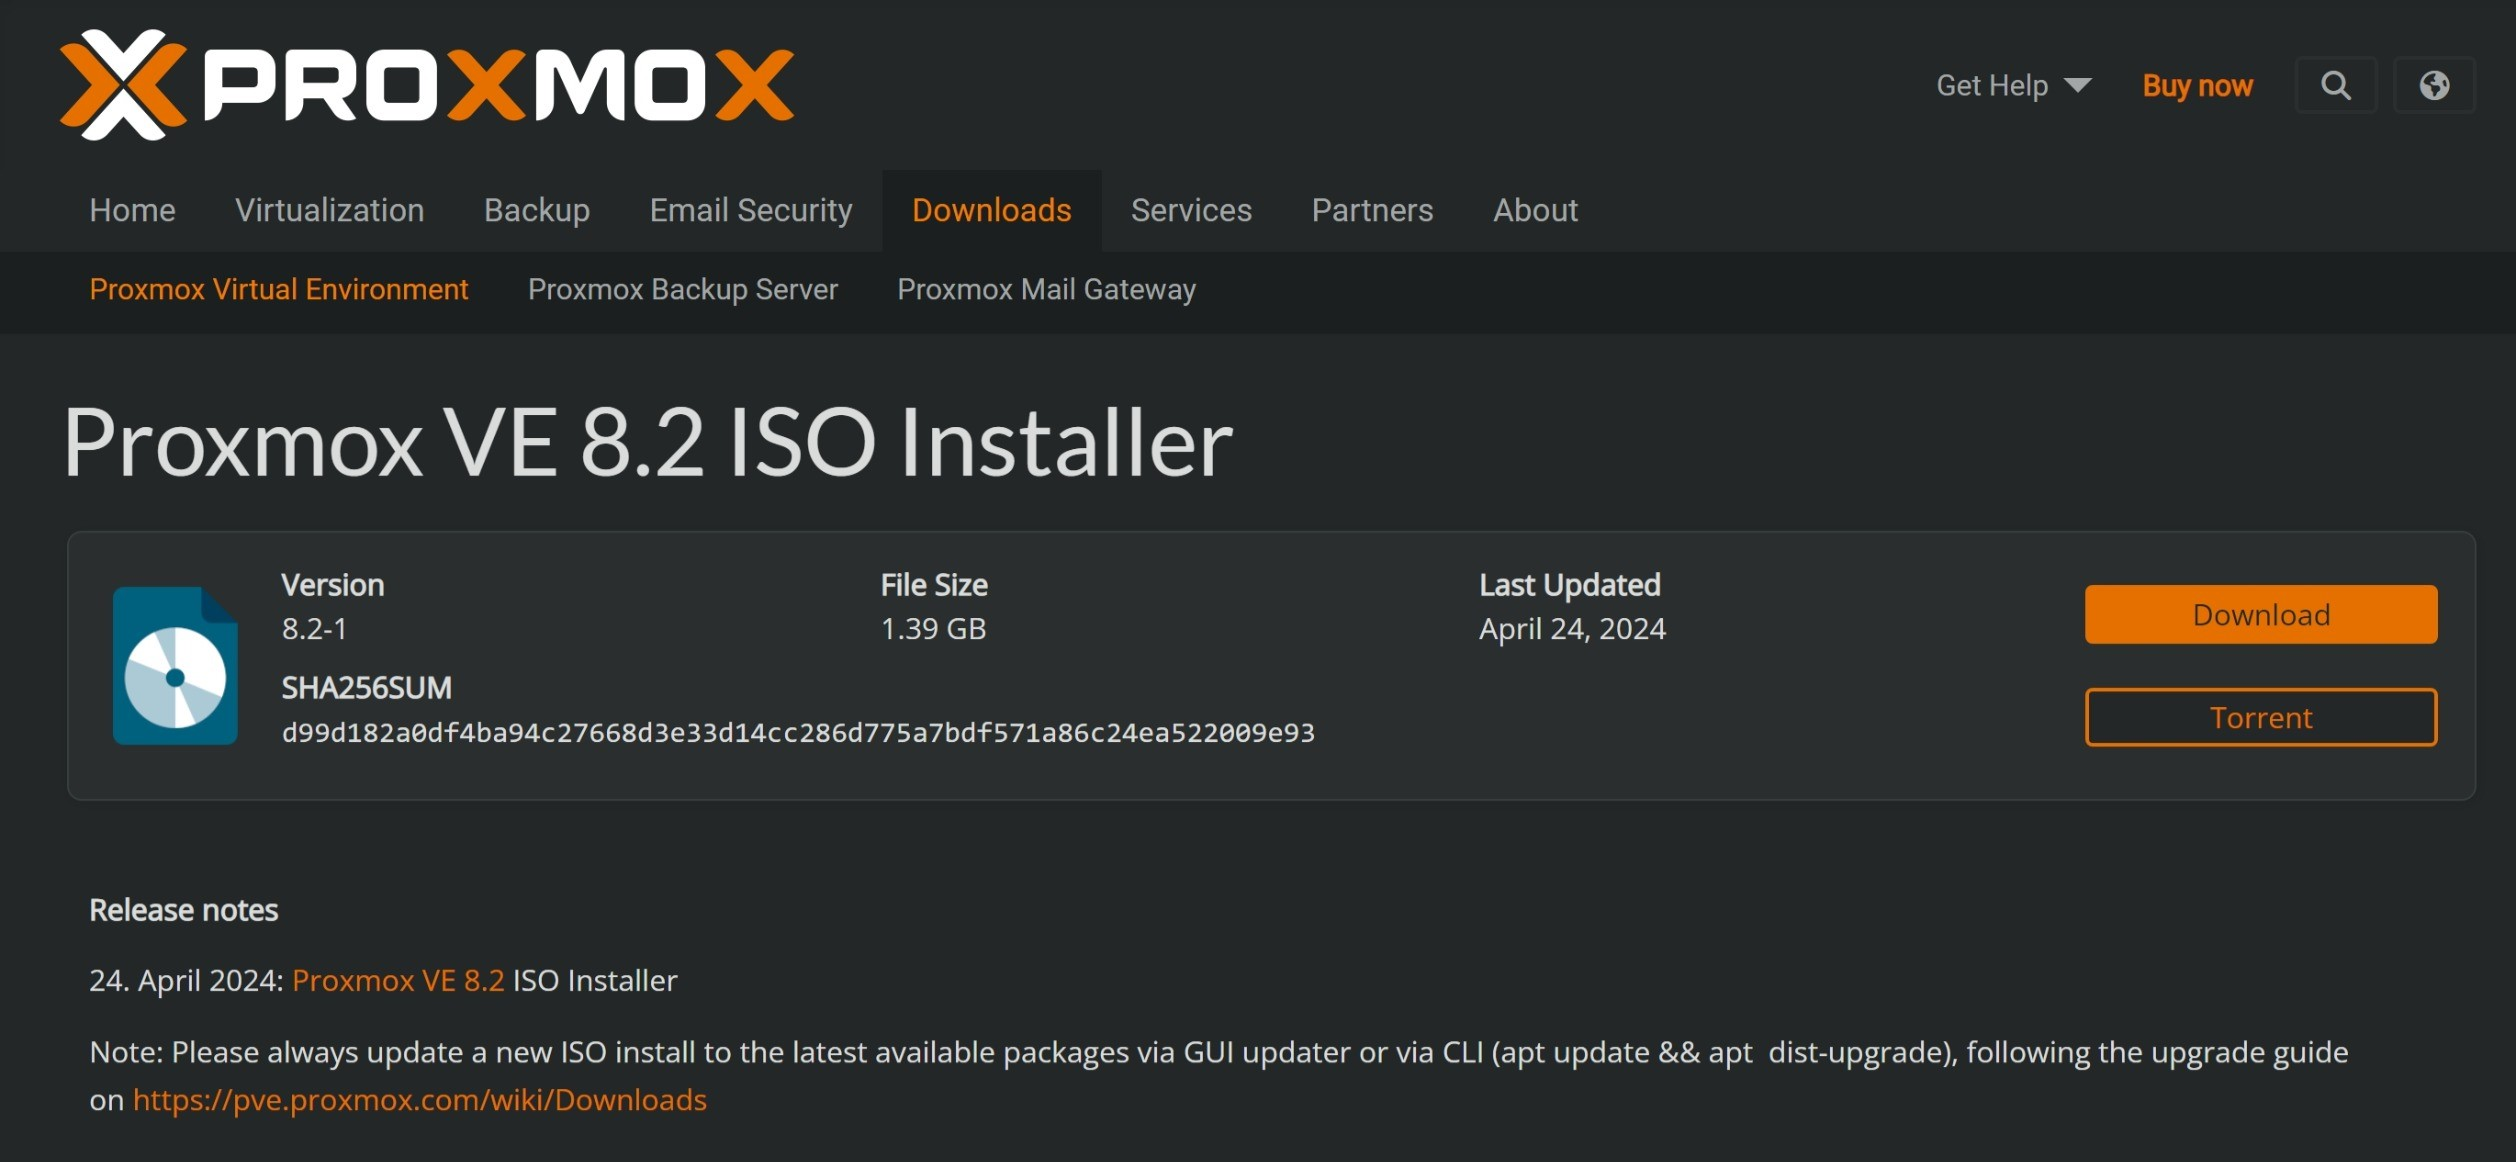
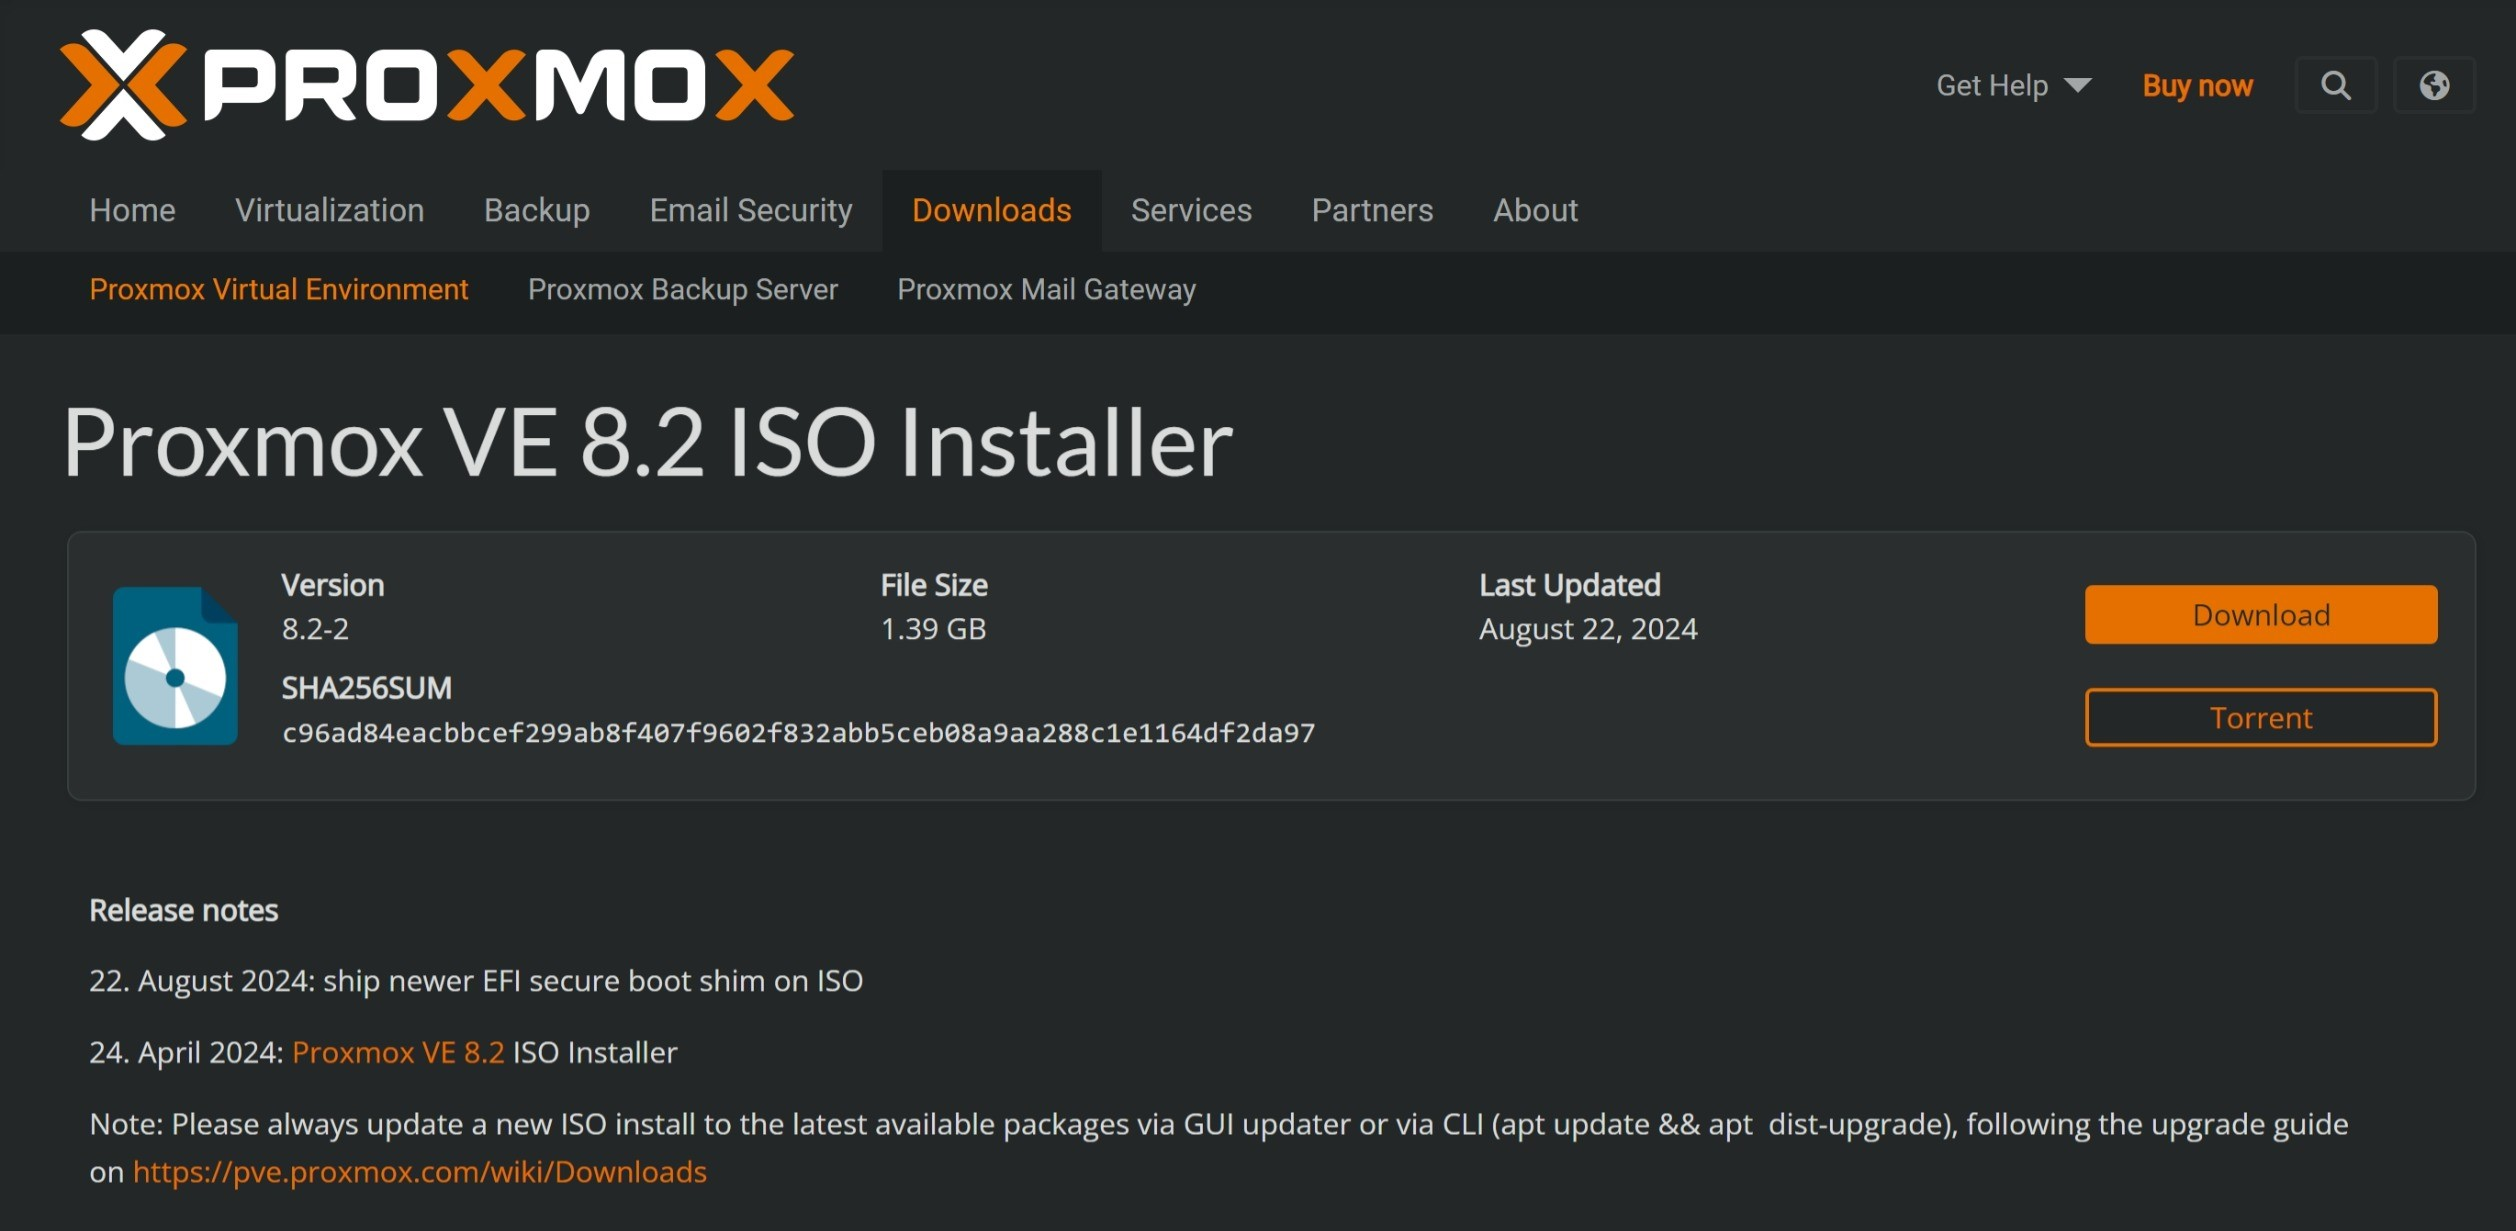
同步更新

diff --git a/06.PVE制作DNS服务器.md b/06.PVE制作DNS服务器.md
@@ -252,7 +252,7 @@ $ sudo systemctl enable smartdns.service
 $ sudo mkdir -p /etc/smartdns.d
 
 ## 下载广告规则配置文件
-$ sudo curl -LR -o /etc/smartdns.d/anti-ad.smartdns.conf https://anti-ad.net/anti-ad-for-smartdns.conf
+$ sudo curl -LR -o /etc/smartdns.d/neodevhost.smartdns.conf https://neodev.team/lite_smartdns.conf
 ```
 
 `SmartDNS` 的加速规则通过 `bash` 脚本安装，脚本生成的配置文件位于 `/etc/smartdns.d` 目录。  
@@ -342,9 +342,10 @@ bind-tcp [::]:6053@lo
 prefetch-domain yes
 
 rr-ttl-min 60
-rr-ttl-max 21600
-rr-ttl-reply-max 3600
+rr-ttl-max 28800
+rr-ttl-reply-max 14400
 
+cache-size 32768
 force-qtype-SOA 65
 max-query-limit 1024
 max-reply-ip-num 24
@@ -353,17 +354,15 @@ server 172.16.1.1 -group intranet -exclude-default-group
 nameserver /fox.home.arpa/intranet
 domain-rules /fox.home.arpa/ -speed-check-mode none -no-cache
 
-server-tcp 223.5.5.5 -bootstrap-dns
-server-tcp 52.80.66.66 -bootstrap-dns
-server-tcp 2400:3200::1 -bootstrap-dns
+server-tcp 180.184.2.2 -bootstrap-dns
+server-tcp 114.114.115.115 -bootstrap-dns
+server-tcp 2400:3200:baba::1 -bootstrap-dns
 server-tcp 2400:7fc0:849e:200::4 -bootstrap-dns
 
 server-tls dot.pub
-server-tls dot.onedns.net
 server-tls dns.alidns.com
 
 server-https https://doh.pub/dns-query
-server-https https://doh.onedns.net/dns-query
 server-https https://dns.alidns.com/dns-query
 
 ```
@@ -382,7 +381,7 @@ $ sudo crontab -e
 ```bash
 ## 定时任务配置项
 
-20 9 * * * /usr/bin/curl --retry-connrefused --retry 5 --retry-delay 5 --retry-max-time 60 -fsSLR -o /etc/smartdns.d/anti-ad.smartdns.conf https://anti-ad.net/anti-ad-for-smartdns.conf
+20 9 * * * /usr/bin/curl --retry-connrefused --retry 5 --retry-delay 5 --retry-max-time 60 -fsSLR -o /etc/smartdns.d/neodevhost.smartdns.conf https://neodev.team/lite_smartdns.conf
 
 30 9 * * * /usr/bin/systemctl restart smartdns.service
 
@@ -393,7 +392,7 @@ $ sudo crontab -e
 ```bash
 ## 定时任务配置项
 
-20 9 * * * /usr/bin/curl --retry-connrefused --retry 5 --retry-delay 5 --retry-max-time 60 -fsSLR -o /etc/smartdns.d/anti-ad.smartdns.conf https://anti-ad.net/anti-ad-for-smartdns.conf
+20 9 * * * /usr/bin/curl --retry-connrefused --retry 5 --retry-delay 5 --retry-max-time 60 -fsSLR -o /etc/smartdns.d/neodevhost.smartdns.conf https://neodev.team/lite_smartdns.conf
 
 30 9 * * * /usr/bin/bash /opt/smartdns-plugin.sh
 ```
@@ -437,7 +436,7 @@ log-facility=/var/log/dnsmasq.log
 log-async=20
 
 cache-size=2048
-max-cache-ttl=10800
+max-cache-ttl=7200
 fast-dns-retry=1800
 rebind-domain-ok=/fox.home.arpa/
 
@@ -446,6 +445,7 @@ bogus-priv
 domain-needed
 local-service
 no-hosts
+no-negcache
 no-resolv
 no-round-robin
 rebind-localhost-ok

diff --git a/README.md b/README.md
@@ -3,13 +3,13 @@
 ## 介绍
 PVE 虚拟化平台的安装以及折腾手记。  
 
-- PVE ISO 版本：8.2-1 (更新时间: 2024-04-24)
+- PVE ISO 版本：8.2-2 (更新时间: 2024-08-22)
 
 - 演示机：
-    - CPU：英特尔奔腾 Silver N6005 处理器
-    - 内存：16 GB
-    - 网卡：英特尔以太网控制器 I226-V
-    - 硬盘：500 GB NVMe 固态硬盘
+    - CPU：N6005
+    - 内存：16GB DDR4
+    - 网卡：I226-V
+    - 硬盘：500GB NVMe
 
 - PVE 网络：
     - IPv4 网络

diff --git a/07.PVE制作TS服务器.md b/07.PVE制作TS服务器.md
@@ -514,7 +514,7 @@ log-facility=/var/log/dnsmasq.log
 log-async=20
 
 cache-size=2048
-max-cache-ttl=10800
+max-cache-ttl=7200
 fast-dns-retry=1800
 rebind-domain-ok=/fox.home.arpa/
 
@@ -523,6 +523,7 @@ bogus-priv
 domain-needed
 local-service
 no-hosts
+no-negcache
 no-round-robin
 rebind-localhost-ok
 stop-dns-rebind
